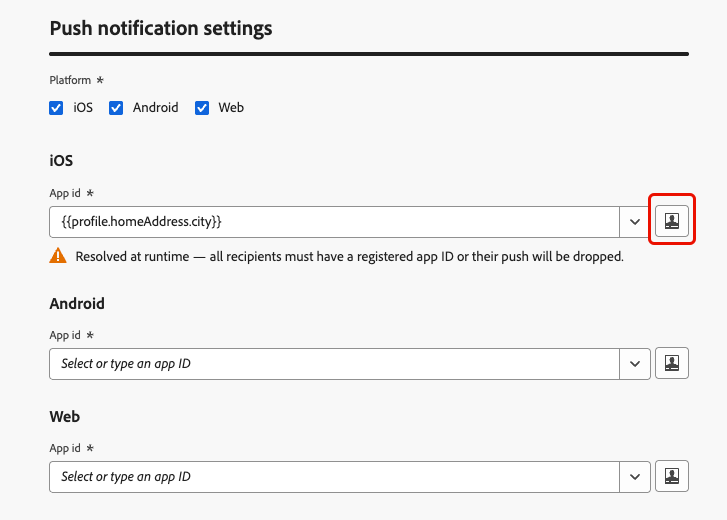
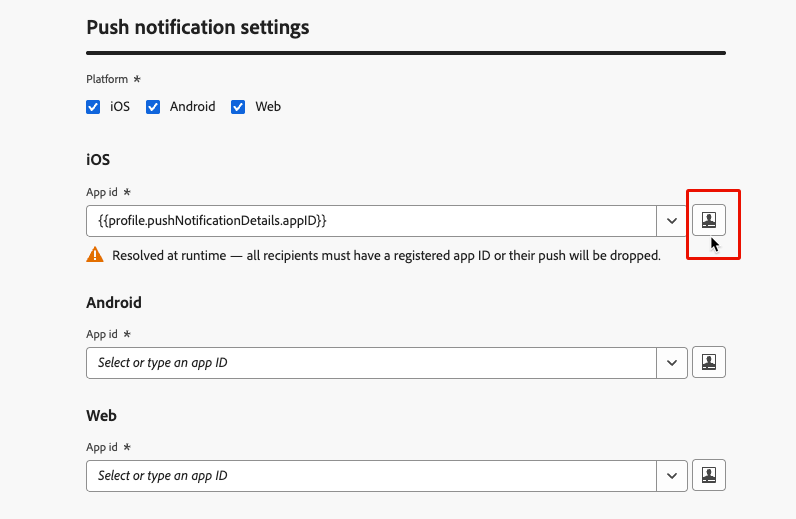
Small updates and PM feedback on screenshot

diff --git a/help/using/push/push-configuration.md b/help/using/push/push-configuration.md
@@ -232,7 +232,7 @@ Once creating your push credentials, you need to create a configuration to be ab
 
 1. Choose your **[!UICONTROL Platform]**: Android and/or iOS <!--and/or Web-->.
 
-1. For **[!UICONTROL App id]**, select the value that matches your [push credential](#push-credentials-launch). Optionally, personalize the App id to drive many apps from one journey or campaign. [Learn more](#app-id-personalization)
+1. For **[!UICONTROL App id]**, select the value that matches your [push credential](#push-credentials-launch). Optionally, use personalization to drive many apps from one journey or campaign. [Learn more](#app-id-personalization)
 
 1. **Save** your changes.
 
@@ -242,13 +242,13 @@ You can now select your configuration when creating your push notifications.
 
 When you have many brands or tenants with separate apps, you can store each **[!UICONTROL App id]** on the profile and use a single channel configuration to send push notifications to the correct app for each recipient.
 
-To do so, click the Personalization icon next to the **[!UICONTROL App id]** field, select the profile attribute of your choice, and save. The field uses the corresponding [Handlebars expression](../personalization/personalization-syntax.md) evaluated for each recipient at send time.
+To do so, click the Personalization icon next to the **[!UICONTROL App id]** field, select a profile attribute mapped to the app id, and save. The field uses the corresponding [Handlebars expression](../personalization/personalization-syntax.md) evaluated for each recipient at send time.
 
 ![](assets/push-config-11.png){width="70%"}
 
 >[!CAUTION]
 >
->[!DNL Journey Optimizer] does not check that [push credentials](#push-credentials-launch) exist for every value the expression may return. Make sure you have push credentials for every possible App id, and test with representative profiles. If a recipient's resolved App id has no matching push credentials, they will not be delivered as expected.
+>[!DNL Journey Optimizer] does not check that [push credentials](#push-credentials-launch) exist for every value the expression may return. Make sure you have push credentials for every possible app id, and test with representative profiles. If a recipient's resolved app id has no matching push credentials, they will not be delivered as expected.
 
 ## Step 3: configure Adobe Journey Optimizer extension in your mobile property {#configure-journey-optimizer-extension}
 
